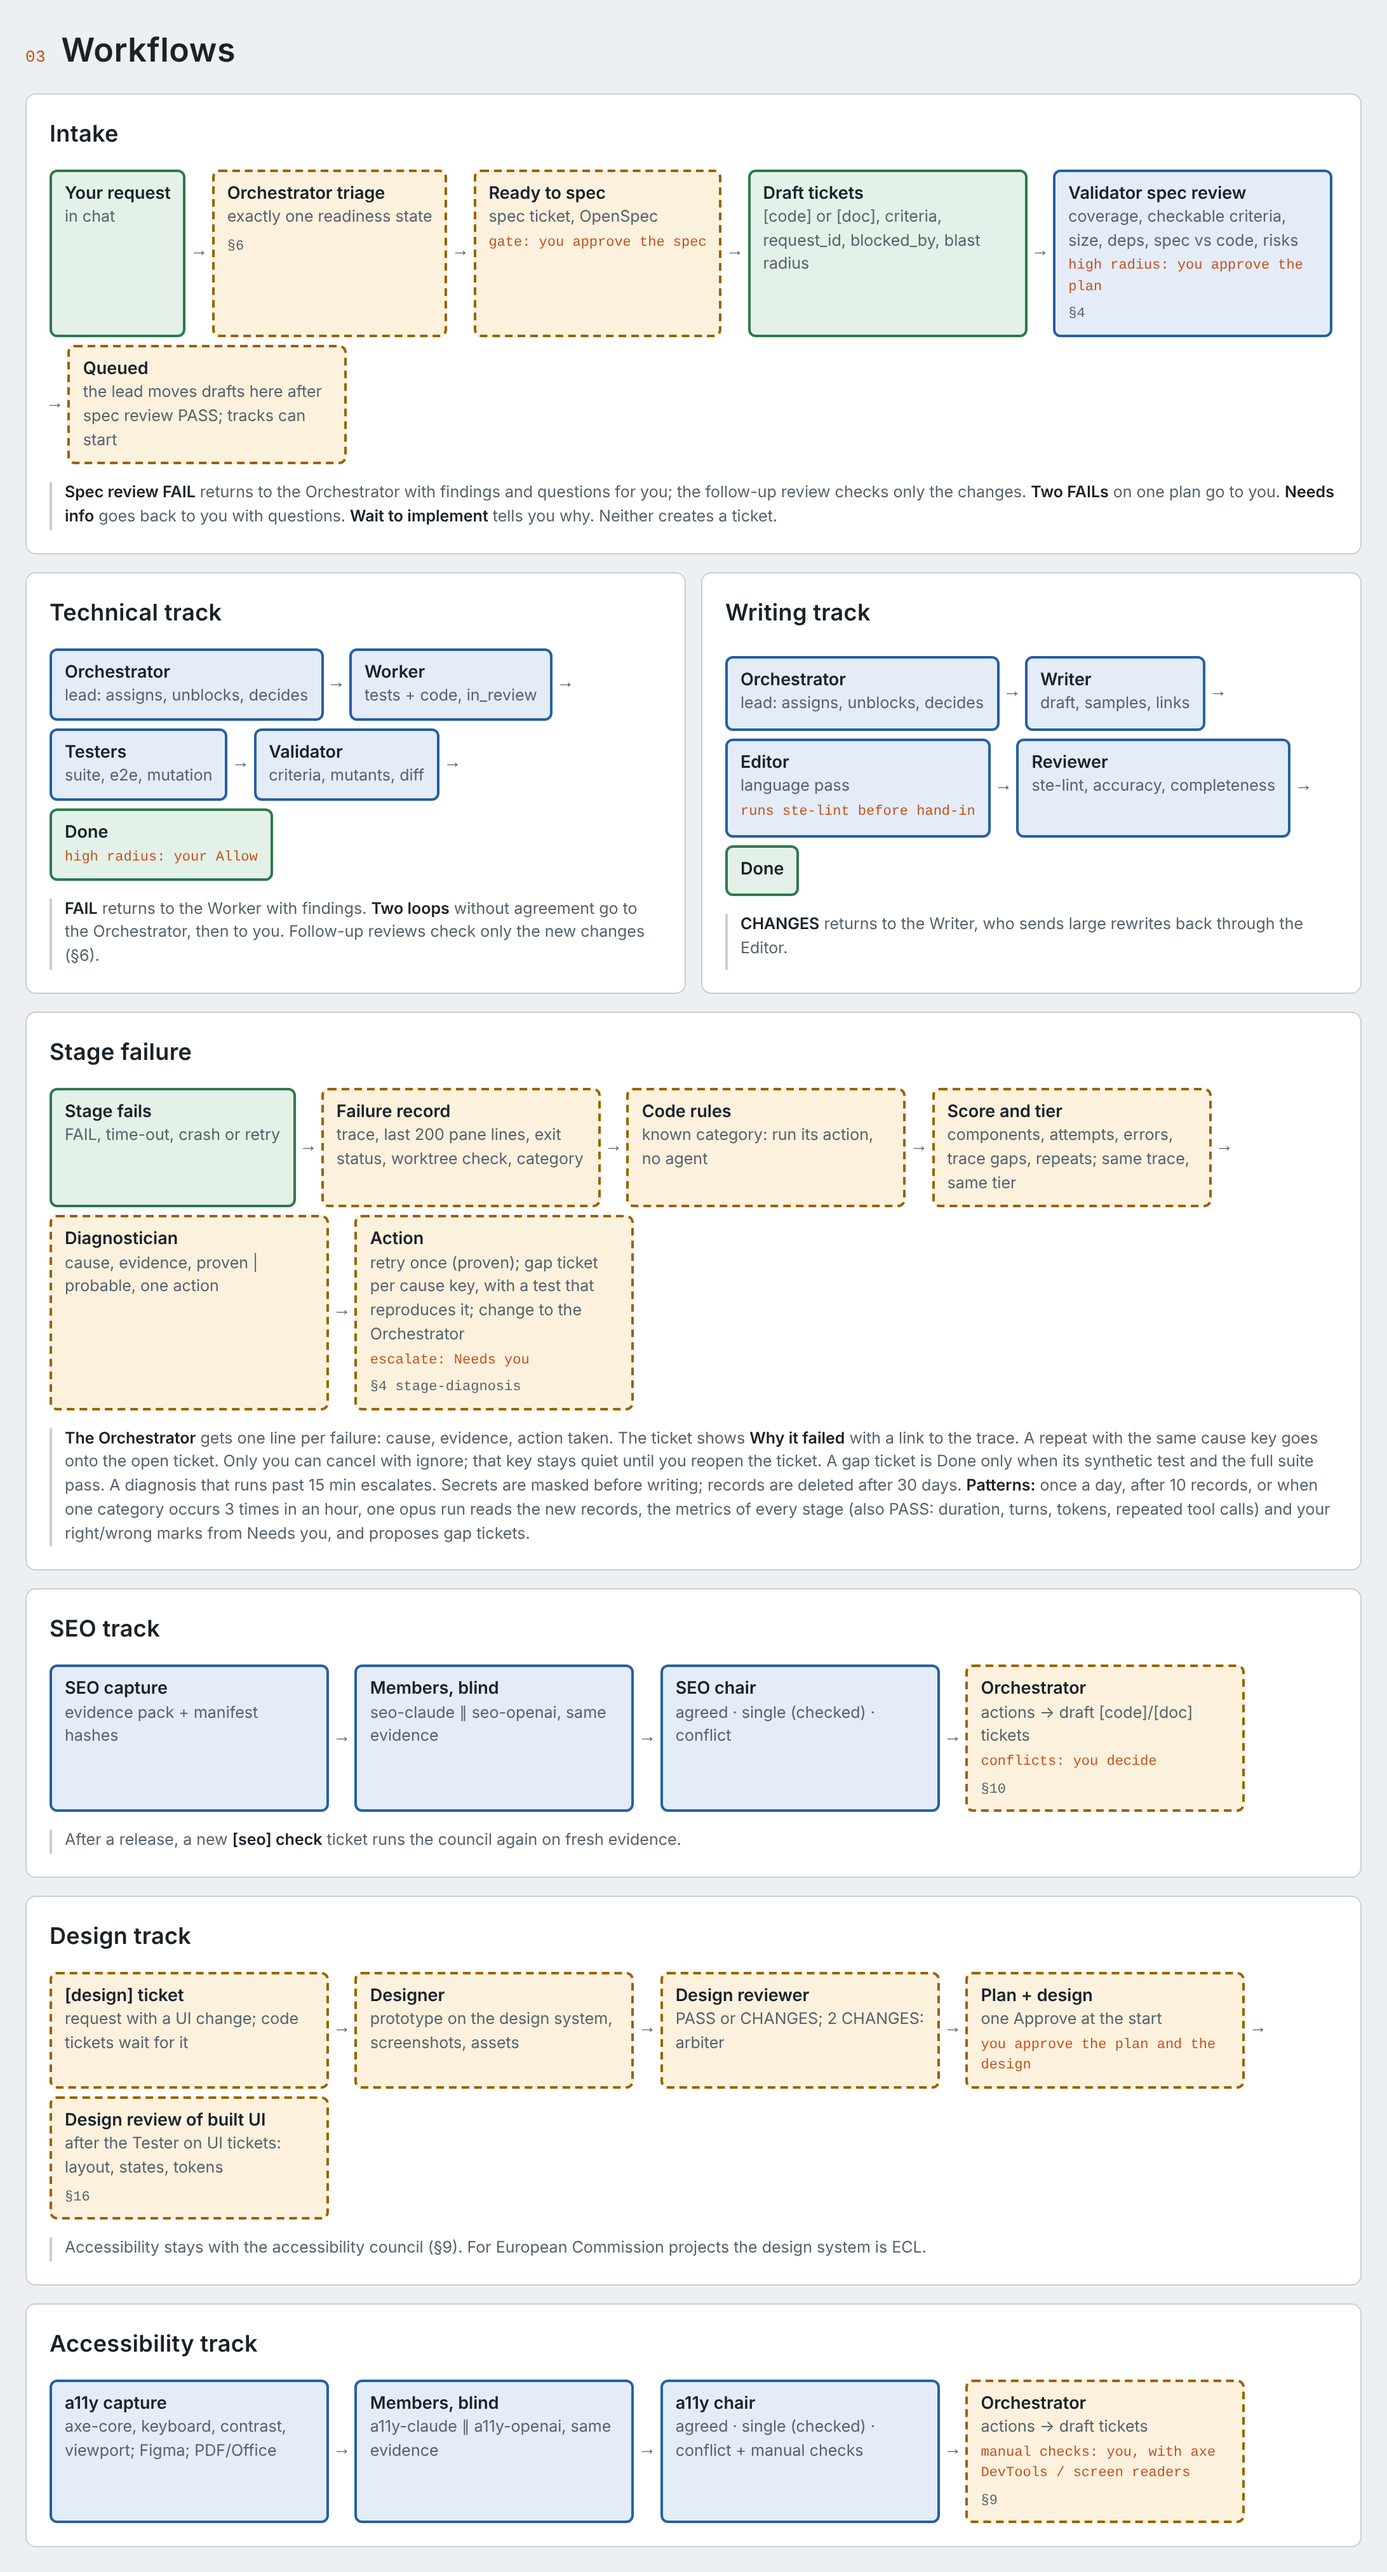
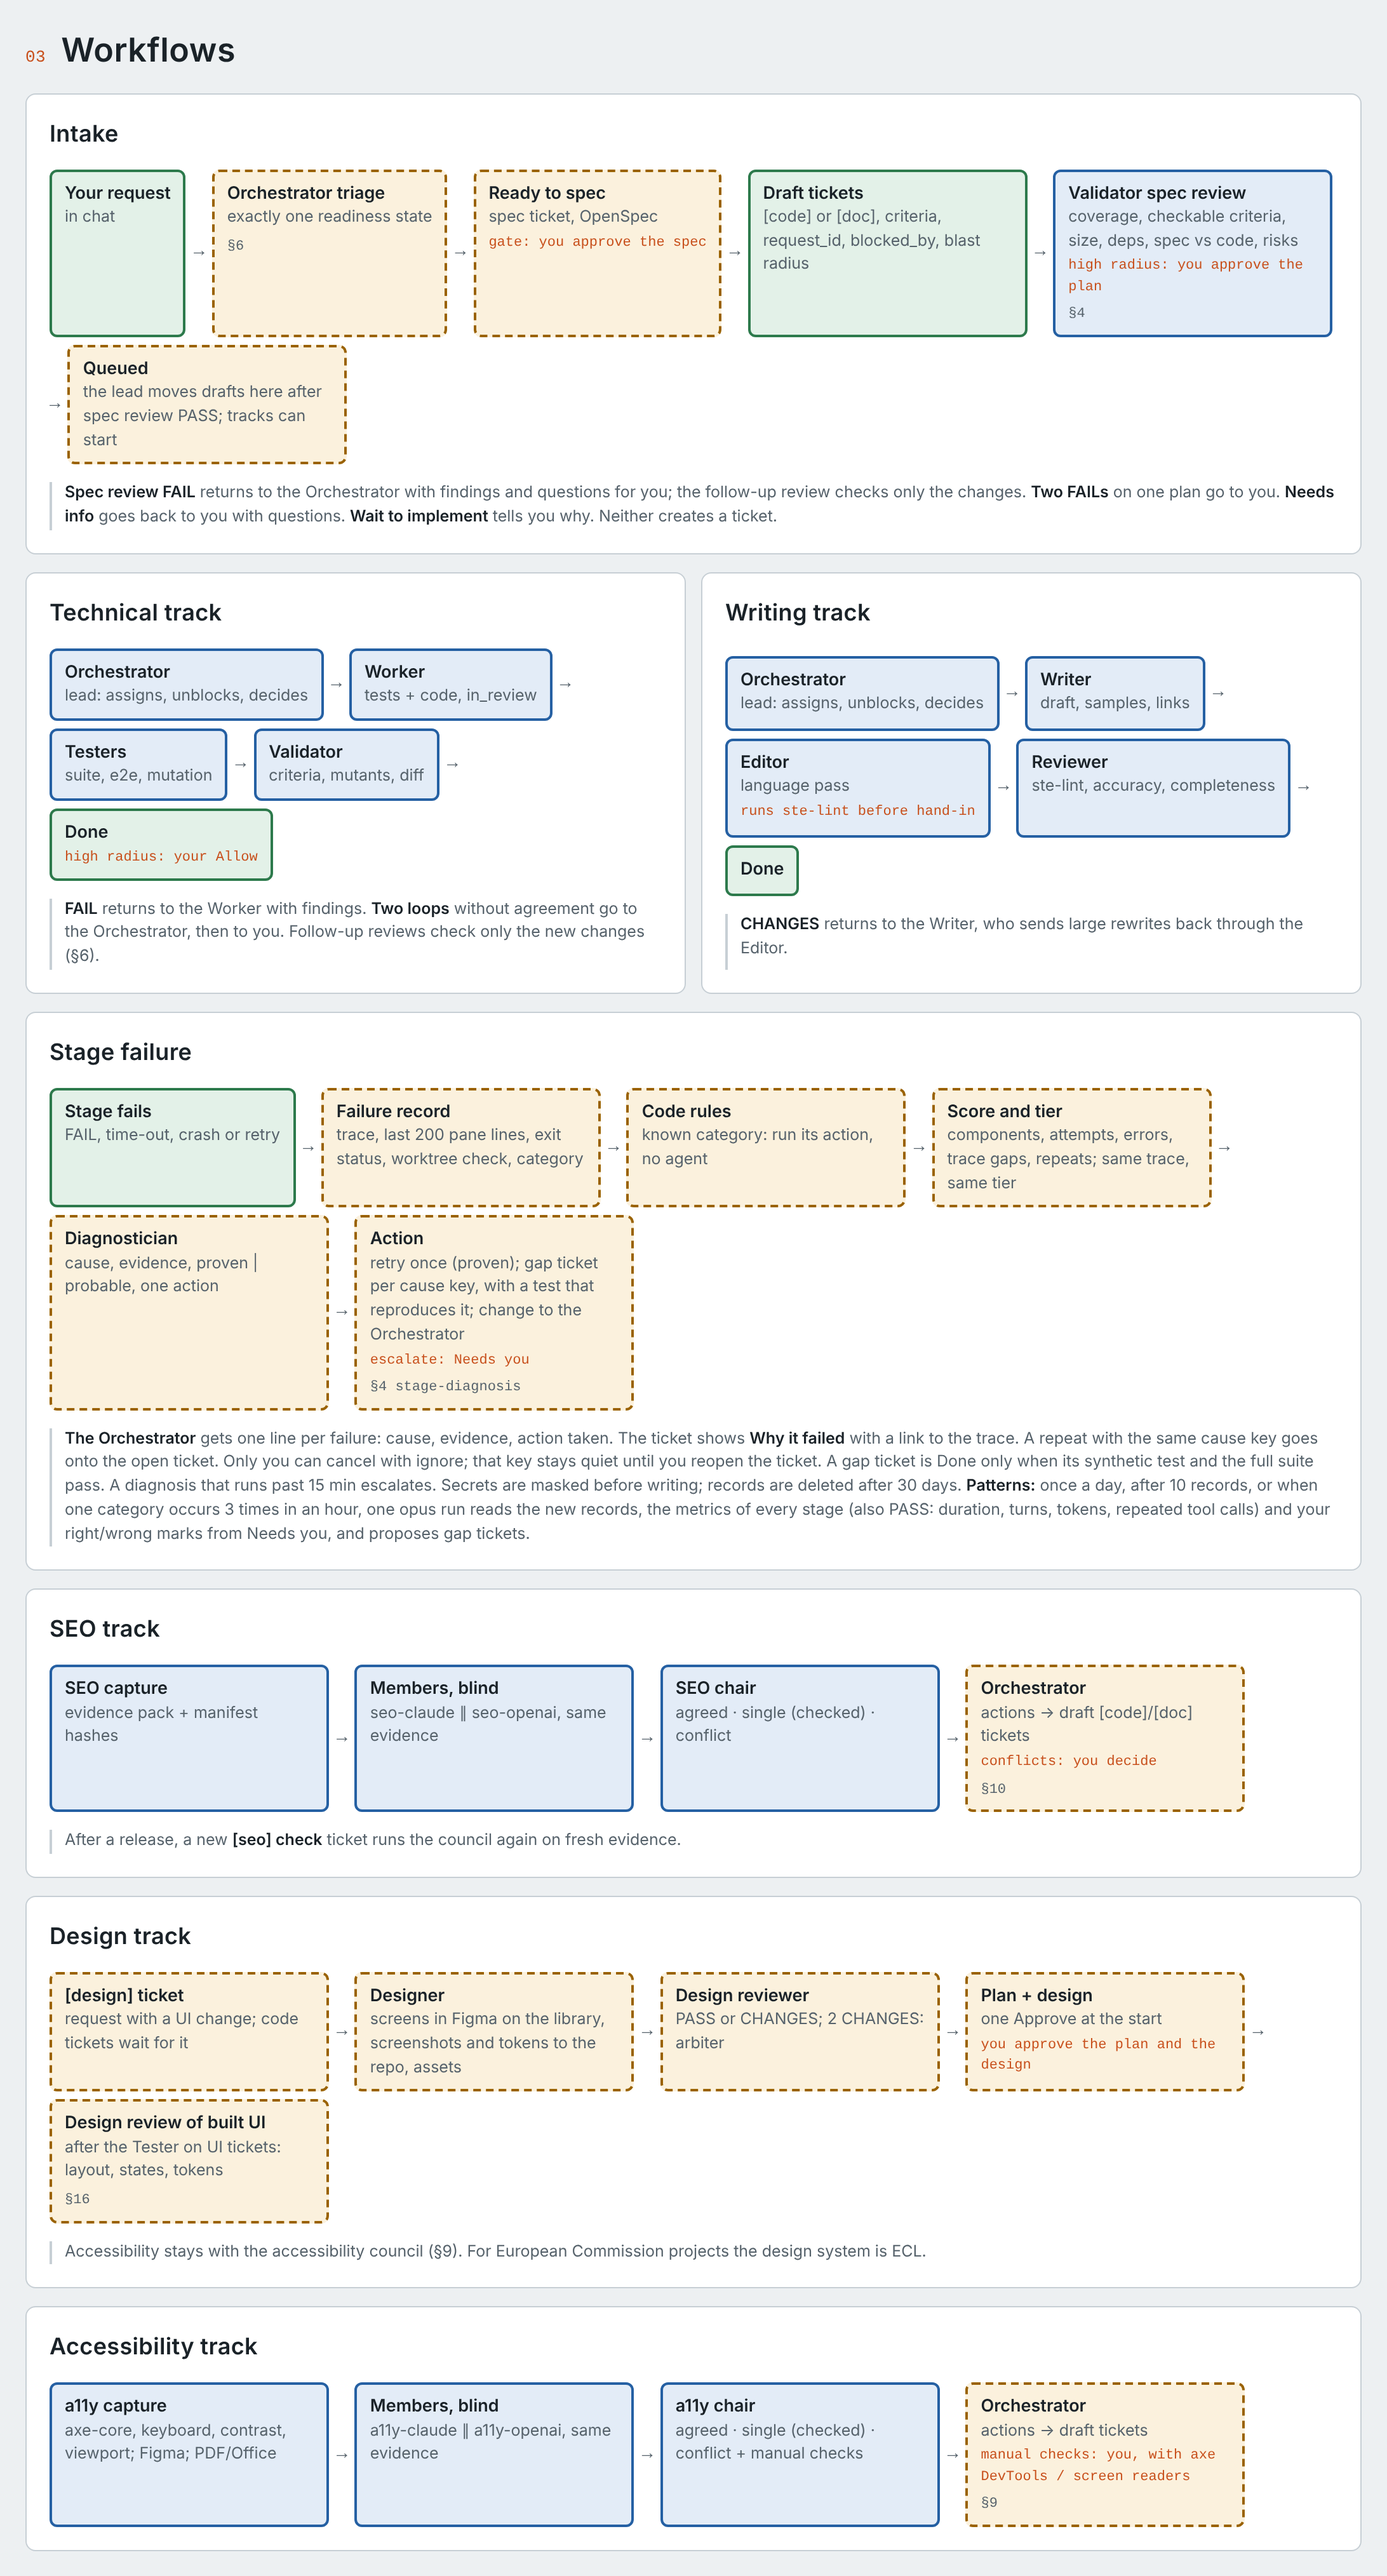
docs: Part 16 design team works in Figma (remote MCP, write to canvas); map

diff --git a/docs/factory-map.html b/docs/factory-map.html
@@ -331,8 +331,9 @@ footer{color:var(--muted);font-size:12.5px;display:grid;gap:4px}
     <article class="n planned role">
       <div class="head"><h3>Design team</h3><span class="model">Claude + 2nd model</span></div>
       <span class="track">Design track · 2 roles</span>
-      <p class="job">Designer (opus for new work, sonnet for changes) makes UI designs before the build, the project design system (ECL for EC projects) and SVG assets. Design reviewer (a different model) checks designs, then the built UI against the approved design.</p>
-      <dl><dt>skills</dt><dd>ui-designer, ux-architect, design-system, frontend-design-direction, frontend-ui-engineering; reviewer: ui-finish-gate-reviewer</dd>
+      <p class="job">Designer (opus for new work, sonnet for changes) makes UI designs in Figma before the build (remote Figma MCP, write to canvas), the project design system as Figma variables and components (ECL for EC projects) and SVG assets. Design reviewer (a different model) checks designs, then the built UI against the approved design.</p>
+      <dl><dt>tool</dt><dd>Figma (use_figma, get_screenshot, Code Connect); tokens exported to the repo</dd>
+      <dt>skills</dt><dd>figma-use, ui-designer, ux-architect, design-system, frontend-design-direction, frontend-ui-engineering; reviewer: ui-finish-gate-reviewer</dd>
       <dt>never</dt><dd>changes product code, approves its own work, copies brand marks</dd></dl>
     </article>
 
@@ -418,7 +419,7 @@ footer{color:var(--muted);font-size:12.5px;display:grid;gap:4px}
     <h3>Design track</h3>
     <div class="flow">
       <div class="n planned"><span class="t">[design] ticket</span><span class="d">request with a UI change; code tickets wait for it</span></div><span class="arrow">→</span>
-      <div class="n planned"><span class="t">Designer</span><span class="d">prototype on the design system, screenshots, assets</span></div><span class="arrow">→</span>
+      <div class="n planned"><span class="t">Designer</span><span class="d">screens in Figma on the library, screenshots and tokens to the repo, assets</span></div><span class="arrow">→</span>
       <div class="n planned"><span class="t">Design reviewer</span><span class="d">PASS or CHANGES; 2 CHANGES: arbiter</span></div><span class="arrow">→</span>
       <div class="n planned"><span class="t">Plan + design</span><span class="d">one Approve at the start</span><span class="gate">you approve the plan and the design</span></div><span class="arrow">→</span>
       <div class="n planned"><span class="t">Design review of built UI</span><span class="d">after the Tester on UI tickets: layout, states, tokens</span><span class="ref">§16</span></div>

diff --git a/factory/brief/16-design-team.md b/factory/brief/16-design-team.md
@@ -20,21 +20,39 @@ The factory makes the design of a feature before the Workers build it, keeps a d
 | Designer | Claude, opus for a new design or design system, sonnet for changes | Makes the designs, the design system and the assets. Runs its own screenshot check before hand-in. | Changes product code. Approves its own work. |
 | Design reviewer | A different model from the Designer: OpenAI on Pi when it is set up, else opus in a new session | Checks a design against the request and the design system, and the built UI against the approved design. PASS or CHANGES. | Edits files. |
 
+## Tool: Figma (decision 2026-10-28)
+
+The design team works in Figma. It uses the remote Figma MCP server:
+- **Write:** `use_figma` creates and edits frames, components, variants, variables and auto layout in a Figma file, through the Figma Plugin API. `upload_assets` and `generate_image` add images. The Figma skill `figma-use` makes these calls reliable.
+- **Read:** `get_design_context`, `get_screenshot`, `get_variable_defs` and `get_metadata`. The Design reviewer reads only.
+- **Code link:** Code Connect maps Figma components to code components, so that the Workers build from the real components.
+
+Conditions (Figma documentation, read 2026-10-28; check again before the build):
+- A Figma Professional, Education, Organization or Enterprise plan, and edit access to the files.
+- Write to canvas is in beta. It is free during the beta and becomes a paid, usage-based feature later. Record the cost in the delivery report when Figma starts to charge.
+- Output can need manual cleanup. The Designer works in a draft file or a branch of the file, never in the published library directly.
+- Fonts must be in the Figma account. Components with images or video cannot be imported.
+- The stage sessions need the Figma MCP in their role plugin, with the human's Figma sign-in on the Mac. Agents never see the human's password; the sign-in is the human's step (Part 8, setup).
+
 ## Where the work lives
 
+In Figma, for each project:
+- **Library:** the design system as Figma variables (colour, type, spacing, radius, shadow, with modes for the themes) and published components. For a European Commission project, start from the ECL Figma kit when one is available, and do not make a second system.
+- **Design file:** one page for each request, with the screens and their states. The Designer works on a draft or a branch; the human approves the page link.
+
 In the project repository:
-- `design/system/`: `design-tokens.json`, `tokens.css`, `components.md`.
-- `design/<request-id>/`: `brief.md` (the screens and states), the prototype (static HTML and CSS that load `design/system/tokens.css`), and `screenshots/` (desktop and mobile, light and dark where the project has them).
+- `design/system/`: `design-tokens.json` and `tokens.css`, exported from the Figma variables, so that code and Figma use the same values. A check compares them.
+- `design/<request-id>/`: `brief.md` (the Figma page link, the screens and states) and `screenshots/` (from `get_screenshot`), so that the review and the delivery report work without Figma.
 - `design/assets/`: SVG files, each with a line in `design/assets/SOURCES.md`.
 
 Inputs:
-- Figma files, read with the Figma MCP (`get_design_context`, `get_screenshot`, `get_variable_defs`) when the project has them. The team does not write to Figma.
+- Existing Figma files of the project.
 - The existing UI, through screenshots that Playwright makes.
 
 ## Flow
 
 1. The Orchestrator triages a request (Part 6, item 1). A request with a UI change gets a `[design]` ticket first.
-2. Designer: makes the design or the system change, and its screenshots.
+2. Designer: makes the design or the system change in Figma (draft or branch), exports the screenshots and, for a system change, the tokens.
 3. Design reviewer: PASS or CHANGES. CHANGES goes back to the Designer. After two CHANGES, the arbiter decides (Part 6, item 11).
 4. The plan of the request goes to the human with the design screenshots. One Approve covers both.
 5. The Workers build. Each UI ticket names the screens of the approved design that it implements.
@@ -47,7 +65,7 @@ Sources as for the other roles (`factory/README.md`). Copy each skill with its s
 
 | Role | Core | Optional |
 |---|---|---|
-| Designer | `agency-design-ui-designer`, `agency-design-ux-architect`, `design-system` (ECC), `frontend-design-direction` (ECC), `frontend-ui-engineering` (Osmani) | `agency-design-brand-guardian`, `agency-design-visual-storyteller`, `agency-design-inclusive-visuals-specialist` |
+| Designer | `figma-use` (Figma), `agency-design-ui-designer`, `agency-design-ux-architect`, `design-system` (ECC), `frontend-design-direction` (ECC), `frontend-ui-engineering` (Osmani) | `agency-design-brand-guardian`, `agency-design-visual-storyteller`, `agency-design-inclusive-visuals-specialist` |
 | Design reviewer | `agency-design-ui-finish-gate-reviewer`, `design-system` (ECC, audit mode) | `agency-design-ux-researcher`, `agency-design-persona-walkthrough` |
 
 ## Dependencies
@@ -64,10 +82,13 @@ Sources as for the other roles (`factory/README.md`). Copy each skill with its s
 3. A built UI that uses a colour value outside the design system gets a blocking design-review finding.
 4. On a European Commission project, the Designer uses ECL tokens and components, and creates no new token set.
 5. Each asset in `design/assets/` has a line in `SOURCES.md`.
+6. The tokens exported from the Figma variables match `design/system/tokens.css` (a check that fails on a difference).
+7. A design stage without the Figma sign-in stops with a clear message and a "Needs you" line; it does not fall back to HTML silently.
 
 ## Open questions
 
-1. Image generation (illustrations that are not SVG): which model, and is it in scope? Today: SVG only.
+1. Image generation: Figma's `generate_image` can make raster images. Is it in scope, and at what cost after the beta? Today: SVG only.
+3. Which Figma plan and team does the factory use, and who owns the files (the human, or each client)?
 2. Does the design review run on every UI ticket, or only when the ticket names a screen of an approved design?
 
 ---
